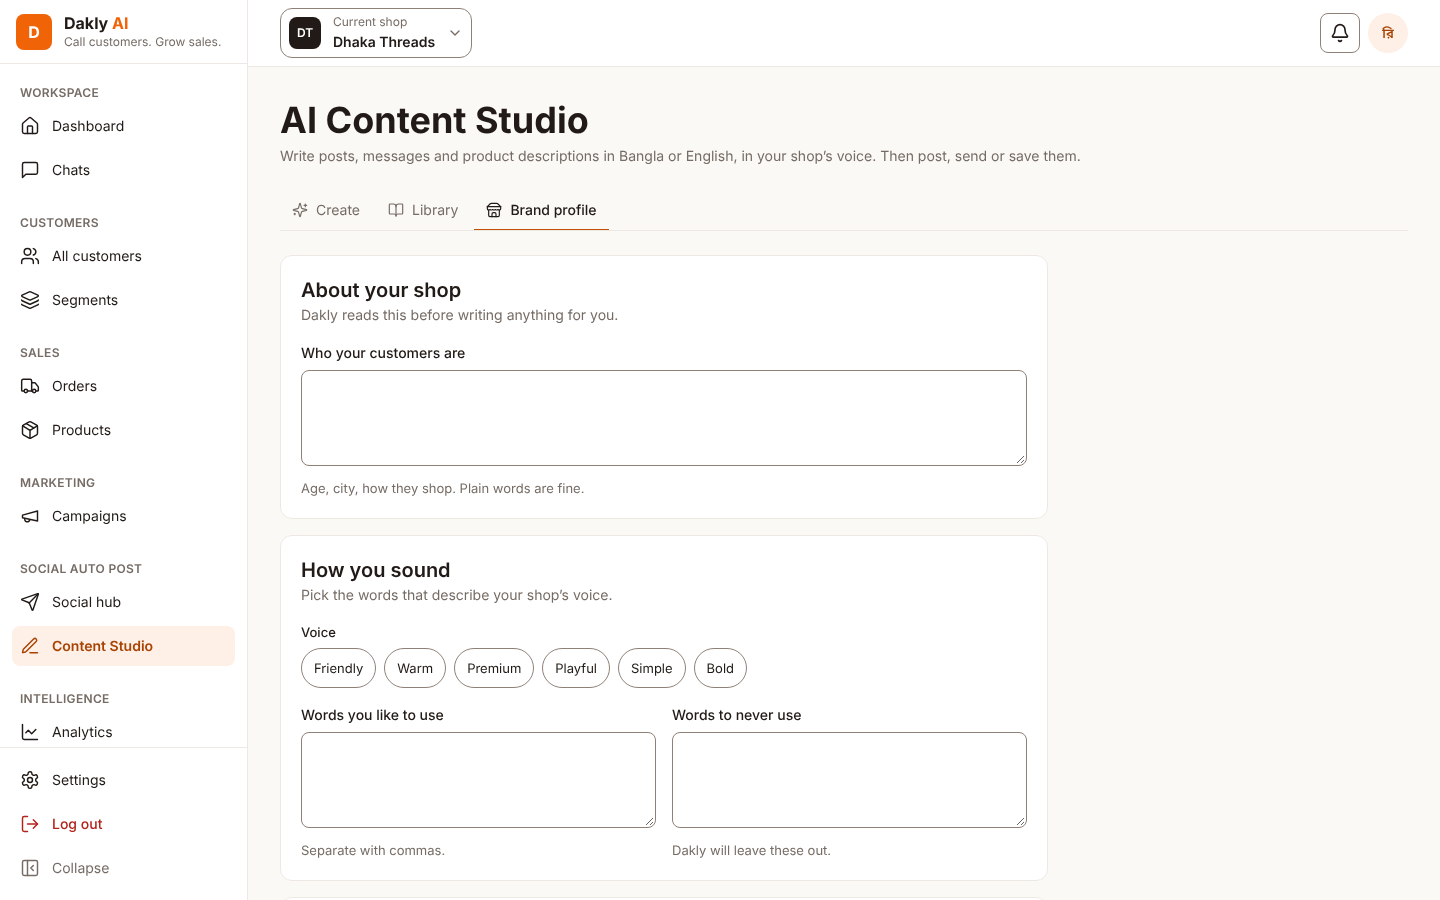
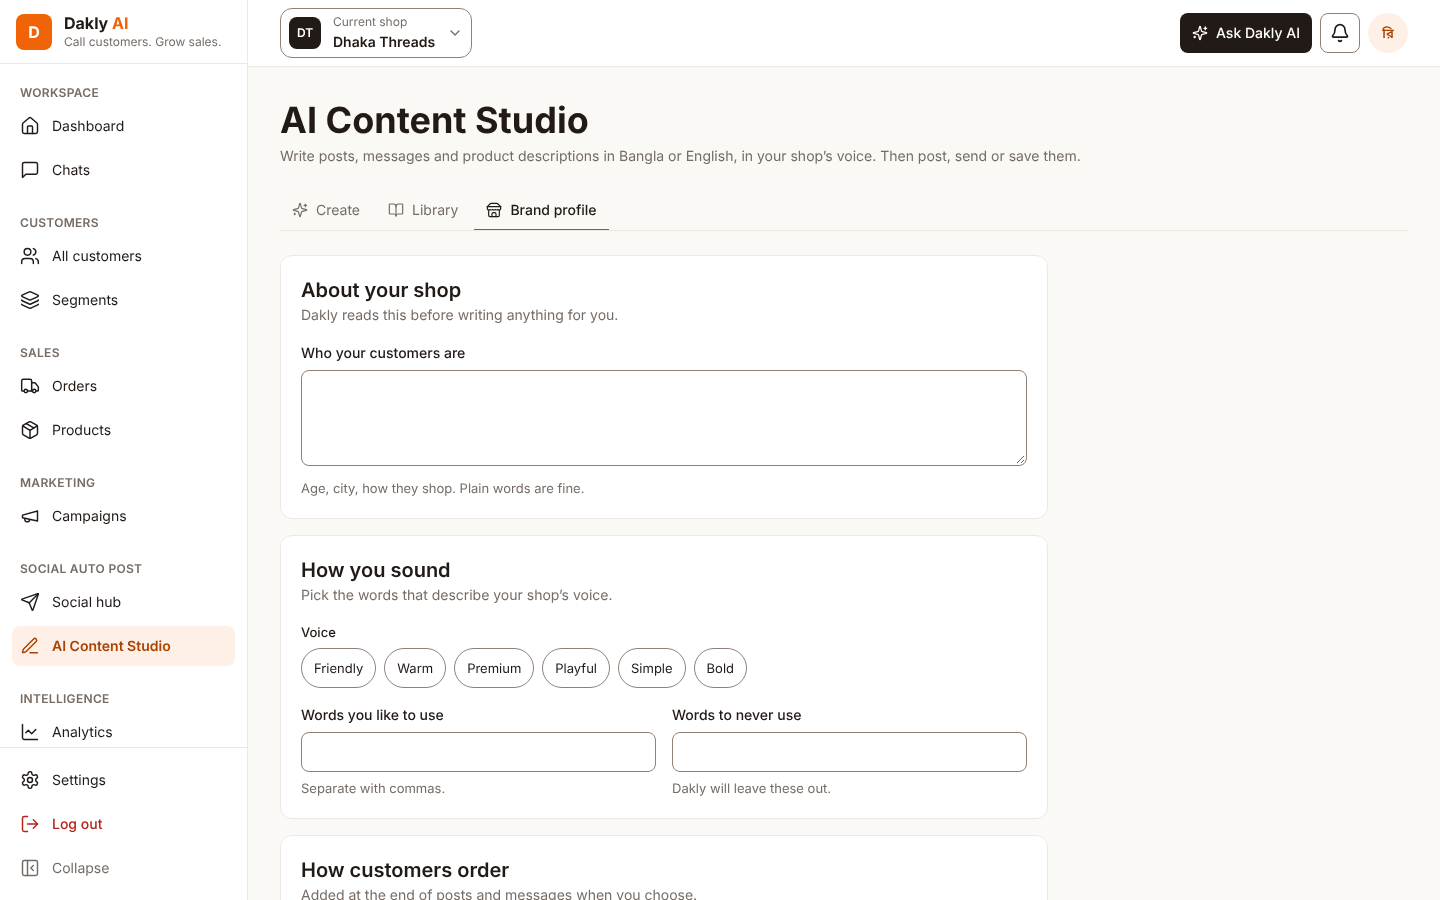
docs(soc-5): describe the Brand profile tab and add its evidence

Changed region(s): [[0.1875, 0.8711, 0.7188, 1.0], [0.8125, 0.0, 0.9375, 0.0622], [0.0312, 0.7156, 0.125, 0.7467]]

diff --git a/docs/tasks.md b/docs/tasks.md
@@ -190,13 +190,13 @@ Core, built before channel connections with SMS as the first channel (D40), and 
 
 ## M10. Content and social
 
-| ID    | Task                                             | Status    | Depends | PR                                                   | Notes                                                                                                                                                                                                                                                                                                                                    |
-| ----- | ------------------------------------------------ | --------- | ------- | ---------------------------------------------------- | ---------------------------------------------------------------------------------------------------------------------------------------------------------------------------------------------------------------------------------------------------------------------------------------------------------------------------------------- |
-| SOC-1 | Posts, targets, posting slots, approval          | Done      | CHN-2   | #227, #234                                           |                                                                                                                                                                                                                                                                                                                                          |
-| SOC-2 | Publish jobs for Facebook and Instagram, retries | Done      | SOC-1   | #236, #237, #239                                     |                                                                                                                                                                                                                                                                                                                                          |
-| SOC-3 | Post insights job                                | Done      | SOC-2   | #282                                                 |                                                                                                                                                                                                                                                                                                                                          |
-| SOC-4 | Content Studio writing                           | Done      | AI-2    | #225, #230, #232                                     | Brand profile, library, generation and product descriptions merged. The AI caption panel in Create post is SOC-5.                                                                                                                                                                                                                        |
-| SOC-5 | Web: Social hub, My posts, Content Studio        | In review | SOC-4   | #286, #294, #312, #316, #323, #328, #335, #341, #344 | Part 1 and 2: Social hub, connect dialog, draft actions, posting schedule, draft thumbnails with photo links on posts. Part 4: Create post screen, then the AI caption panel with photos, link and first comment, then Upload from device. Part 5: Content Studio Create and Library tabs. Left: My posts; Content Studio Brand profile. |
+| ID    | Task                                             | Status    | Depends | PR                                                   | Notes                                                                                                                                                                                                                                                                                                                                                                                                                |
+| ----- | ------------------------------------------------ | --------- | ------- | ---------------------------------------------------- | -------------------------------------------------------------------------------------------------------------------------------------------------------------------------------------------------------------------------------------------------------------------------------------------------------------------------------------------------------------------------------------------------------------------- |
+| SOC-1 | Posts, targets, posting slots, approval          | Done      | CHN-2   | #227, #234                                           |                                                                                                                                                                                                                                                                                                                                                                                                                      |
+| SOC-2 | Publish jobs for Facebook and Instagram, retries | Done      | SOC-1   | #236, #237, #239                                     |                                                                                                                                                                                                                                                                                                                                                                                                                      |
+| SOC-3 | Post insights job                                | Done      | SOC-2   | #282                                                 |                                                                                                                                                                                                                                                                                                                                                                                                                      |
+| SOC-4 | Content Studio writing                           | Done      | AI-2    | #225, #230, #232                                     | Brand profile, library, generation and product descriptions merged. The AI caption panel in Create post is SOC-5.                                                                                                                                                                                                                                                                                                    |
+| SOC-5 | Web: Social hub, My posts, Content Studio        | In review | SOC-4   | #286, #294, #312, #316, #323, #328, #335, #341, #344 | Part 1 and 2: Social hub, connect dialog, draft actions, posting schedule, draft thumbnails with photo links on posts. Part 4: Create post screen, then the AI caption panel with photos, link and first comment, then Upload from device. Part 5: Content Studio Create, Library and Brand profile tabs. Left: My posts; Content Studio length, hashtag and order-line inputs, AI credits left and Use in campaign. |
 
 ## M11. Analytics and insights
 

diff --git a/docs/features/08-content-and-social.md b/docs/features/08-content-and-social.md
@@ -230,6 +230,7 @@ The Social hub lists each connected Facebook Page and Instagram account with its
 - An AI-written draft that nobody approved shows Needs your OK (D7).
 - Content Studio (`/content-studio`, tabs in the URL: Create, Library, Brand profile) follows the prototype page, which its menu does not link to ([create](../design/screenshots/content-and-social/content-studio-create.webp), [options](../design/screenshots/content-and-social/content-studio-results.webp)). Create has the three numbered steps (format cards, what it is about with idea chips, product and notes, then language and tone), the start ideas, and 3 option cards with Make it Shorter, Friendlier and To English or To Bangla (1 credit each), Edit, Copy, Preview, Save and Schedule post. Schedule post saves the option to the library with its AI run, then opens Create post with that text, so the draft is saved as AI-written (D7). Left out because the writing API takes none of them yet: AI credits left (nothing reads usage), Length, Add your hashtags and End with how to order (hashtags and the call to action are always part of the prompt), the Use my Brand Profile row (the profile always applies), the Library count on the tab and Use in campaign.
 - The Library tab ([design](../design/screenshots/content-and-social/content-studio-library.webp)) shows saved writing as cards with its type, language and saved date, and Edit, Copy (Copy description for a product), Preview, Delete (asks first) and Schedule post for Facebook and Instagram writing. The group pills (All, Social posts, Messages, Products) and the search sit in the URL and filter the loaded pieces, 100 at a time with Load more, because the list API filters by one kind and language only. Left out: the topic line and the Posted, Used in a campaign and Sent to status lines (not stored), and Use in campaign.
+- The Brand profile tab ([design](../design/screenshots/content-and-social/content-studio-brand.webp)) edits the saved profile: who your customers are, voice chips, words to use, words to never use, and the call to action in English and in Bangla. Voice chips are saved as words separated by commas in the voice field, and words the chips do not offer are kept. Members without edit permission see it read only. Left out because the profile does not store them: shop name, website, what you sell, usual language, hashtags, and the sample panel.
 
 TikTok shows Coming soon and stays hidden in release 1. The prototype's Instagram "Access expired" disagrees with the campaign builder; status comes from the real connection.
 
